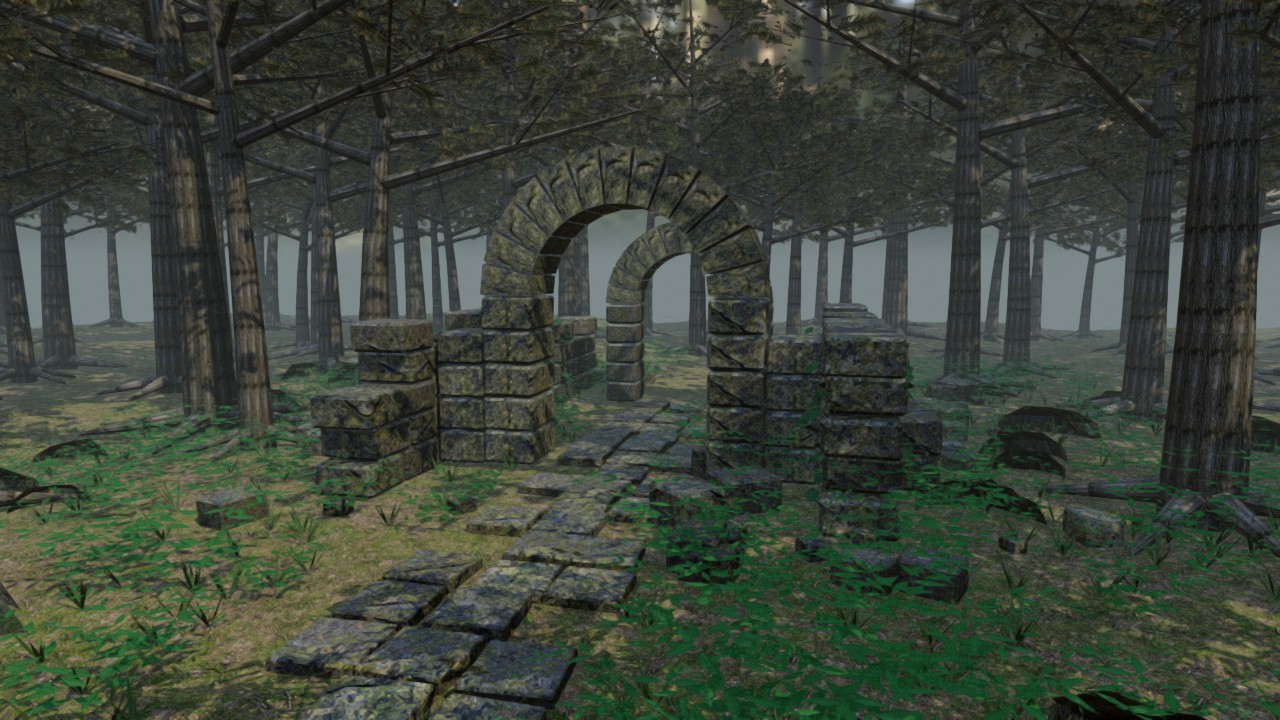
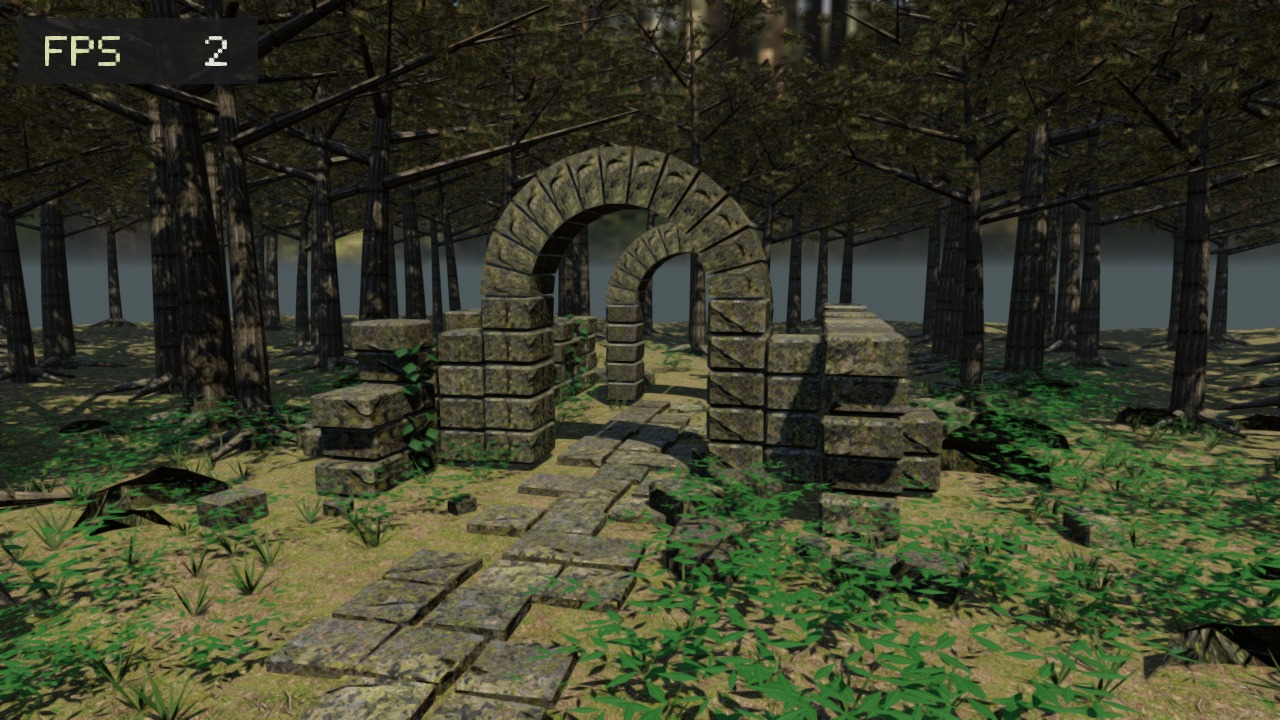
Illuminate the forest clearing and add a measured FPS overlay

diff --git a/src/FpsHud.cpp b/src/FpsHud.cpp
@@ -1,0 +1,78 @@
+#include "FpsHud.h"
+#include <filament/RenderableManager.h>
+#include <filament/Viewport.h>
+#include <utils/EntityManager.h>
+#include <algorithm>
+#include <stdexcept>
+
+namespace forest {
+using namespace filament;
+namespace {
+struct HudVertex { math::float3 position; math::float2 uv; };
+// Static storage stays valid until Filament finishes the asynchronous upload.
+const HudVertex quadVertices[] = {
+    {{-1,-1,0},{0,0}}, {{1,-1,0},{1,0}}, {{1,1,0},{1,1}}, {{-1,1,0},{0,1}}
+};
+const uint16_t quadIndices[] = {0,1,2,0,2,3};
+}
+FpsHud::~FpsHud() {
+    if (view_) engine_.destroy(view_);
+    if (scene_) { scene_->remove(quad_); engine_.destroy(scene_); }
+    engine_.destroy(quad_);
+    utils::EntityManager::get().destroy(quad_);
+    if (camera_) engine_.destroyCameraComponent(cameraEntity_);
+    utils::EntityManager::get().destroy(cameraEntity_);
+    if (vertices_) engine_.destroy(vertices_);
+    if (indices_) engine_.destroy(indices_);
+    if (instance_) engine_.destroy(instance_);
+    if (material_) engine_.destroy(material_);
+}
+void FpsHud::load(const AssetReader& read) {
+    if (material_) throw std::logic_error("FPS HUD already loaded");
+    const auto bytes = read("forest/hud.filamat");
+    material_ = Material::Builder().package(bytes.data(),bytes.size()).build(engine_);
+    if (!material_) throw std::runtime_error("Invalid FPS HUD material");
+    instance_ = material_->createInstance();
+    reset();
+    scene_ = engine_.createScene();
+    view_ = engine_.createView();
+    cameraEntity_ = utils::EntityManager::get().create();
+    camera_ = engine_.createCamera(cameraEntity_);
+    camera_->setProjection(Camera::Projection::ORTHO,-1,1,-1,1,0.1,10);
+    camera_->lookAt({0,0,1},{0,0,0});
+    camera_->setExposure(1.0f);
+    view_->setScene(scene_); view_->setCamera(camera_);
+    // Composite this small translucent view through Filament's color pass.
+    view_->setPostProcessingEnabled(true);
+    view_->setBlendMode(View::BlendMode::TRANSLUCENT);
+    view_->setShadowingEnabled(false);
+    vertices_ = VertexBuffer::Builder().vertexCount(4).bufferCount(1)
+        .attribute(VertexAttribute::POSITION,0,VertexBuffer::AttributeType::FLOAT3,offsetof(HudVertex,position),sizeof(HudVertex))
+        .attribute(VertexAttribute::UV0,0,VertexBuffer::AttributeType::FLOAT2,offsetof(HudVertex,uv),sizeof(HudVertex)).build(engine_);
+    vertices_->setBufferAt(engine_,0,VertexBuffer::BufferDescriptor(quadVertices,sizeof(quadVertices)));
+    indices_ = IndexBuffer::Builder().indexCount(6).bufferType(IndexBuffer::IndexType::USHORT).build(engine_);
+    indices_->setBuffer(engine_,IndexBuffer::BufferDescriptor(quadIndices,sizeof(quadIndices)));
+    quad_ = utils::EntityManager::get().create();
+    const auto result = RenderableManager::Builder(1).boundingBox({{0,0,0},{1,1,1}})
+        .geometry(0,RenderableManager::PrimitiveType::TRIANGLES,vertices_,indices_)
+        .material(0,instance_).culling(false).castShadows(false).receiveShadows(false).build(engine_,quad_);
+    if (result != RenderableManager::Builder::Success) throw std::runtime_error("Cannot create FPS HUD");
+    scene_->addEntity(quad_);
+}
+void FpsHud::render(Renderer& renderer, int width, int height) {
+    if (width <= 0 || height <= 0) return;
+    const int margin = std::max(8,std::min(width,height)/40);
+    const int w = std::min(std::clamp(std::min(width,height)/3,180,270),width-2*margin);
+    const int h = w*15/54;
+    if (w <= 0 || height < h+2*margin) return;
+    view_->setViewport({margin,height-margin-h,uint32_t(w),uint32_t(h)});
+    renderer.render(view_);
+}
+void FpsHud::completedFrame(double seconds) {
+    if (counter_.record(seconds)) instance_->setParameter("fps",counter_.value());
+}
+void FpsHud::reset() {
+    counter_.reset();
+    if (instance_) instance_->setParameter("fps",-1.f);
+}
+}

diff --git a/src/main.cpp b/src/main.cpp
@@ -1,6 +1,7 @@
 #include <SDL3/SDL.h>
 #include <SDL3/SDL_main.h>
 #include "Forest.h"
+#include "FpsHud.h"
 #include <filament/Camera.h>
 #include <filament/Renderer.h>
 #include <filament/SwapChain.h>
@@ -37,12 +38,15 @@ public:
         forest::Forest::configure(*view_);
         forest_=std::make_unique<forest::Forest>(*engine_,*scene_);
         forest_->load(readAsset);
+        hud_=std::make_unique<forest::FpsHud>(*engine_);
+        hud_->load(readAsset);
         Renderer::FrameRateOptions rate;rate.interval=1;renderer_->setFrameRateOptions(rate);
         start_=SDL_GetTicks();
     }
     ~Demo() {
         if(!engine_)return;
         suspend();
+        hud_.reset();
         forest_.reset();
         if(view_)engine_->destroy(view_);
         if(scene_)engine_->destroy(scene_);
@@ -53,6 +57,7 @@ public:
     }
     void suspend() {
         active_=false;fingers_.clear();
+        if(hud_)hud_->reset();
         if(swapChain_) {engine_->destroy(swapChain_);swapChain_=nullptr;}
         native_=nullptr;
     }
@@ -89,18 +94,24 @@ public:
         auto* native=static_cast<ANativeWindow*>(SDL_GetPointerProperty(SDL_GetWindowProperties(window_),
             SDL_PROP_WINDOW_ANDROID_WINDOW_POINTER,nullptr));
         if(native!=native_) {
+            hud_->reset();
             if(swapChain_)engine_->destroy(swapChain_);
             native_=native;swapChain_=native?engine_->createSwapChain(native):nullptr;
         }
         SDL_GetWindowSizeInPixels(window_,&width_,&height_);
-        if(!swapChain_ || width_<=0 || height_<=0) {SDL_Delay(20);return;}
+        if(!swapChain_ || width_<=0 || height_<=0) {hud_->reset();SDL_Delay(20);return;}
         view_->setViewport({0,0,uint32_t(width_),uint32_t(height_)});
         camera_->setProjection(52.0,double(width_)/height_,.1,100,Camera::Fov::VERTICAL);
         const double horizontal=distance_*std::cos(pitch_);
         camera_->lookAt({horizontal*std::sin(yaw_),1.6+distance_*std::sin(pitch_),-3+horizontal*std::cos(yaw_)},
             {0,1.6,-3},{0,1,0});
         forest_->animate(float(SDL_GetTicks()-start_)*.001f);
-        if(renderer_->beginFrame(swapChain_)) {renderer_->render(view_);renderer_->endFrame();}
+        if(renderer_->beginFrame(swapChain_)) {
+            renderer_->render(view_);
+            hud_->render(*renderer_,width_,height_);
+            renderer_->endFrame();
+            hud_->completedFrame(double(SDL_GetTicksNS())*1e-9);
+        }
     }
 private:
     float pinchDistance() const {
@@ -121,6 +132,7 @@ private:
     ANativeWindow* native_=nullptr;
     utils::Entity cameraEntity_{};
     std::unique_ptr<forest::Forest> forest_;
+    std::unique_ptr<forest::FpsHud> hud_;
     std::map<SDL_FingerID,float2> fingers_;
     float yaw_=.24f,pitch_=.12f,distance_=13;
     int width_=0,height_=0;

diff --git a/src/Forest.cpp b/src/Forest.cpp
@@ -99,21 +99,21 @@ void Forest::load(const AssetReader& read) {
     auto* reflection=ktxreader::Ktx1Reader::createTexture(&engine_,bundle.release(),false);
     if(!reflection) throw std::runtime_error("Failed to load environment");
     textures_.push_back(reflection);
-    light_=IndirectLight::Builder().reflections(reflection).irradiance(3,sh).intensity(18000).build(engine_);
+    light_=IndirectLight::Builder().reflections(reflection).irradiance(3,sh).intensity(9000).build(engine_);
     scene_.setIndirectLight(light_);
     auto skyData=read("forest/environment_skybox.ktx");
     auto* skyTexture=ktxreader::Ktx1Reader::createTexture(&engine_,
         new image::Ktx1Bundle(skyData.data(),uint32_t(skyData.size())),false);
     if(!skyTexture) throw std::runtime_error("Failed to load sky");
     textures_.push_back(skyTexture);
-    sky_=Skybox::Builder().environment(skyTexture).intensity(18000).build(engine_);scene_.setSkybox(sky_);
+    sky_=Skybox::Builder().environment(skyTexture).showSun(true).intensity(9000).build(engine_);scene_.setSkybox(sky_);
     auto sun=utils::EntityManager::get().create();entities_.push_back(sun);
     LightManager::ShadowOptions shadows;
     shadows.mapSize=2048;shadows.shadowCascades=3;
     shadows.cascadeSplitPositions[0]=.12f;shadows.cascadeSplitPositions[1]=.38f;
     shadows.shadowFar=65;
-    LightManager::Builder(LightManager::Type::SUN).color({1.0f,.88f,.70f}).intensity(65000)
-        .direction({-.55f,-.72f,-.42f}).sunAngularRadius(.8f)
+    LightManager::Builder(LightManager::Type::SUN).color({1.0f,.88f,.70f}).intensity(110000)
+        .direction({-.32f,-.82f,-.47f}).sunAngularRadius(.53f)
         .castShadows(true).shadowOptions(shadows).build(engine_,sun);
     scene_.addEntity(sun);
 }
@@ -128,10 +128,10 @@ void Forest::configure(View& view) {
     view.setTemporalAntiAliasingOptions(taa);
     AmbientOcclusionOptions ao;ao.enabled=true;ao.radius=.75f;ao.power=1.2f;ao.quality=QualityLevel::MEDIUM;
     view.setAmbientOcclusionOptions(ao);
-    BloomOptions bloom;bloom.enabled=true;bloom.strength=.045f;bloom.threshold=true;
+    BloomOptions bloom;bloom.enabled=true;bloom.strength=.065f;bloom.threshold=true;
     view.setBloomOptions(bloom);
-    FogOptions fog;fog.enabled=true;fog.distance=8;fog.density=.012f;fog.height=1;
-    fog.heightFalloff=.14f;fog.color={.36f,.43f,.44f};fog.inScatteringStart=12;fog.inScatteringSize=20;
+    FogOptions fog;fog.enabled=true;fog.distance=18;fog.density=.004f;fog.height=1;
+    fog.heightFalloff=.2f;fog.color={.36f,.43f,.44f};fog.inScatteringStart=12;fog.inScatteringSize=20;
     view.setFogOptions(fog);
     DynamicResolutionOptions resolution;resolution.enabled=true;resolution.minScale={.65f,.65f};
     resolution.maxScale={1,1};resolution.quality=QualityLevel::MEDIUM;

diff --git a/tests/render.cpp b/tests/render.cpp
@@ -1,4 +1,6 @@
 #include "Forest.h"
+#include "FpsHud.h"
+#include <chrono>
 #include <filament/Camera.h>
 #include <filament/Renderer.h>
 #include <filament/SwapChain.h>
@@ -20,18 +22,21 @@ int main() {
     c->setProjection(52,1280./720,.1,100,Camera::Fov::VERTICAL);
     c->setExposure(16,1.f/125,100);c->lookAt({3.07,3.16,9.54},{0,1.6,-3},{0,1,0});
     {
-        forest::Forest scene(*e,*s);scene.load([](const std::string& name){
+        forest::Forest scene(*e,*s);const auto read=[](const std::string& name){
             std::ifstream f(".generated/assets/"+name,std::ios::binary);
             if(!f)throw std::runtime_error(name);
             return std::vector<uint8_t>(std::istreambuf_iterator<char>(f),{});
-        });
+        };
+        scene.load(read);
+        forest::FpsHud hud(*e);hud.load(read);
         forest::Forest::configure(*v);
         DynamicResolutionOptions d;d.enabled=false;v->setDynamicResolutionOptions(d);
         std::vector<uint8_t> pixels(1280*720*4);
-        for(int i=0;i<8;++i) {
-            if(r->beginFrame(swap)) {r->render(v);
-                if(i==7)r->readPixels(0,0,1280,720,backend::PixelBufferDescriptor(pixels.data(),pixels.size(),backend::PixelDataFormat::RGBA,backend::PixelDataType::UBYTE));
+        for(int i=0;i<16;++i) {
+            if(r->beginFrame(swap)) {r->render(v);hud.render(*r,1280,720);
+                if(i==15)r->readPixels(0,0,1280,720,backend::PixelBufferDescriptor(pixels.data(),pixels.size(),backend::PixelDataFormat::RGBA,backend::PixelDataType::UBYTE));
                 r->endFrame();
+                hud.completedFrame(std::chrono::duration<double>(std::chrono::steady_clock::now().time_since_epoch()).count());
             }
             e->flushAndWait();
         }

diff --git a/tests/fps.cpp b/tests/fps.cpp
@@ -1,0 +1,26 @@
+#include "FpsCounter.h"
+#include <cmath>
+#include <iostream>
+#include <stdexcept>
+
+void require(bool ok, const char* message) { if(!ok) throw std::runtime_error(message); }
+int main() {
+    forest::FpsCounter counter;
+    require(counter.value()<0,"Warm-up must not invent an FPS value");
+    for(int i=0;i<=60;++i) counter.record(i/60.0);
+    require(std::abs(counter.value()-60)<.001f,"60 submitted frames/sec");
+    counter.reset();
+    counter.record(10);
+    for(int i=1;i<=15;++i)counter.record(10+i/60.0);
+    counter.record(10.5); // The missing frames are not submitted or counted.
+    require(std::abs(counter.value()-32)<.001f,"Skipped frames must reduce FPS");
+    counter.reset();
+    require(counter.value()<0,"Resume must clear the old value");
+    counter.record(1000);
+    for(int i=1;i<=30;++i)counter.record(1000+i/60.0);
+    require(std::abs(counter.value()-60)<.001f,"Background time must not affect resumed FPS");
+    bool threw=false;
+    try { counter.record(0); } catch(const std::invalid_argument&) { threw=true; }
+    require(threw,"Reject a backwards clock");
+    std::cout<<"FPS: stable rate, skipped frames, resume and clock validation passed\n";
+}

diff --git a/src/FpsHud.h b/src/FpsHud.h
@@ -1,0 +1,30 @@
+#pragma once
+#include "Forest.h"
+#include "FpsCounter.h"
+#include <filament/Camera.h>
+#include <filament/Renderer.h>
+
+namespace forest {
+class FpsHud {
+public:
+    explicit FpsHud(filament::Engine& engine) : engine_(engine) {}
+    ~FpsHud();
+    FpsHud(const FpsHud&) = delete;
+    FpsHud& operator=(const FpsHud&) = delete;
+    void load(const AssetReader& read);
+    void render(filament::Renderer& renderer, int width, int height);
+    void completedFrame(double seconds);
+    void reset();
+private:
+    filament::Engine& engine_;
+    filament::Scene* scene_ = nullptr;
+    filament::View* view_ = nullptr;
+    filament::Camera* camera_ = nullptr;
+    filament::Material* material_ = nullptr;
+    filament::MaterialInstance* instance_ = nullptr;
+    filament::VertexBuffer* vertices_ = nullptr;
+    filament::IndexBuffer* indices_ = nullptr;
+    utils::Entity cameraEntity_{}, quad_{};
+    FpsCounter counter_;
+};
+}

diff --git a/src/FpsCounter.h b/src/FpsCounter.h
@@ -1,0 +1,29 @@
+#pragma once
+#include <cmath>
+#include <stdexcept>
+
+namespace forest {
+// Counts submitted frames over wall time, including gaps when beginFrame skips.
+class FpsCounter {
+public:
+    void reset() { start_ = -1; previous_ = -1; frames_ = 0; value_ = -1; }
+    bool record(double seconds) {
+        if (!std::isfinite(seconds) || seconds < 0 || seconds < previous_)
+            throw std::invalid_argument("FPS clock must be finite and monotonic");
+        previous_ = seconds;
+        if (start_ < 0) { start_ = seconds; return false; }
+        ++frames_;
+        const double elapsed = seconds - start_;
+        if (elapsed < 0.5) return false;
+        value_ = float(frames_ / elapsed);
+        start_ = seconds;
+        frames_ = 0;
+        return true;
+    }
+    float value() const { return value_; }
+private:
+    double start_ = -1, previous_ = -1;
+    unsigned frames_ = 0;
+    float value_ = -1;
+};
+}

diff --git a/scripts/check-apk.py b/scripts/check-apk.py
@@ -4,7 +4,7 @@ import sys
 import zipfile
 
 with zipfile.ZipFile(sys.argv[1]) as apk:
-    for name in ['surface.filamat', 'foliage.filamat', 'canopy.filamat', 'environment_ibl.ktx', 'environment_skybox.ktx']:
+    for name in ['surface.filamat', 'foliage.filamat', 'canopy.filamat', 'hud.filamat', 'environment_ibl.ktx', 'environment_skybox.ktx']:
         if apk.getinfo('assets/forest/' + name).file_size == 0:
             raise RuntimeError(f'Empty asset: {name}')
     for material in ['ground', 'stone', 'bark']:
@@ -16,4 +16,4 @@ with zipfile.ZipFile(sys.argv[1]) as apk:
         raise RuntimeError('Invalid canopy texture size')
     if not apk.read('assets/forest/CREDITS.md'):
         raise RuntimeError('Missing asset credits')
-print('APK contains three materials, both environment maps, ten textures and credits.')
+print('APK contains four materials, both environment maps, ten textures and credits.')

diff --git a/scripts/prepare-scene.py b/scripts/prepare-scene.py
@@ -68,7 +68,7 @@ def main():
                         image = image.crop(entry['crop']).resize((1024, 1024), Image.Resampling.LANCZOS)
                     (output / (entry['name'] + '.rgba')).write_bytes(image.tobytes())
             print(f"Prepared {entry['name']}", flush=True)
-        for material in ['surface', 'foliage', 'canopy']:
+        for material in ['surface', 'foliage', 'canopy', 'hud']:
             subprocess.run([str(tools / 'matc'), '-a', 'opengl', '-p', 'all',
                             '-o', str(output / (material + '.filamat')),
                             str(ROOT / 'materials' / (material + '.mat'))], check=True)

diff --git a/src/Geometry.cpp b/src/Geometry.cpp
@@ -250,6 +250,9 @@ std::vector<Mesh> generate() {
     for(int x=-32;x<=32;x+=5) for(int z=-32;z<=27;z+=5) {
         float px=x+b.random.next(-2.2f,2.2f),pz=z+b.random.next(-2.2f,2.2f);
         if(std::abs(px)<6.5f && pz>-14 && pz<14)continue;
+        // Open the sunward edge of the clearing. Sun rays must reach the masonry,
+        // not terminate in an uninterrupted roof of pine branches.
+        if(px>2 && px<16 && pz>-1 && pz<18)continue;
         b.tree(px,pz,b.random.next(9,16));
     }
     for(int i=0;i<400;++i) {

diff --git a/README.md b/README.md
@@ -6,7 +6,8 @@ window/input/lifecycle and **Google Filament 1.78.1** for OpenGL ES rendering.
 ![Actual Filament OpenGL rendering on Linux llvmpipe](docs/forest-preview.jpg)
 
 This preview is an actual Filament render at 1280×720, using the same scene and materials.
-It is not an Android screenshot or an FPS benchmark.
+It is not an Android screenshot or an FPS benchmark. The visible FPS is measured on the
+Linux software renderer, not a phone.
 
 ## Scene
 
@@ -16,8 +17,12 @@ It is not an Android screenshot or an FPS benchmark.
 - Photograph-based 1K PBR ground, mossy stone and bark maps: albedo, OpenGL normals and AO/roughness/metalness.
 - Forest HDR environment, prefiltered reflections, diffuse spherical harmonics, warm directional sunlight,
   three shadow cascades, SSAO, height fog, restrained bloom, temporal anti-aliasing and animated foliage.
+- A sunward opening in the canopy lets direct sunlight reach the arches and stone path;
+  reduced ambient light and thinner fog preserve the contrast between sunlight and tree shadows.
+- Top-left FPS overlay, updated every half second from submitted frames. Skipped frames count
+  as elapsed time; backgrounding and surface changes reset the measurement.
 - Deterministic generation with spatial/material batching and frustum culling; approximately
-  405,000 triangles, 228 batches and 64 MiB of vertex/index data before GPU driver overhead.
+  386,000 triangles, 232 batches and 61 MiB of vertex/index data before GPU driver overhead.
   Texture data is about 53 MiB including mipmaps, plus environment maps and render targets.
 - One finger rotates the camera around the ruin; two fingers pinch to zoom. Mouse drag/wheel also work.
   This is an orbiting scene viewer; it does not include walking physics or collision detection.
@@ -57,7 +62,7 @@ release: using NDK r29 with this release previously caused an unresolved `__hash
 nor PRs trigger APK builds. Successful builds replace the same
 `test-build` prerelease / `FilamentSDL3-test-arm64.apk`. No Actions Artifacts are used.
 
-The workflow prepares all scene assets, checks geometry, builds the APK, verifies that the
+The workflow prepares all scene assets, checks geometry and FPS accounting, builds the APK, verifies that the
 materials/textures/environment maps are packaged, and verifies the APK signature before upload.
 The APK remains debug-signed; a changed runner debug key may require uninstalling an older build.
 
@@ -67,6 +72,8 @@ The APK remains debug-signed; a changed runner debug key may require uninstallin
 g++ -std=c++20 -O2 -Wall -Wextra -Werror -isystem .deps/host/filament/include \
   -Isrc tests/geometry.cpp src/Geometry.cpp -o /tmp/forest-geometry-test
 /tmp/forest-geometry-test
+g++ -std=c++20 -O2 -Wall -Wextra -Werror -Isrc tests/fps.cpp -o /tmp/forest-fps-test
+/tmp/forest-fps-test
 python3 scripts/check-apk.py android/app/build/outputs/apk/debug/app-debug.apk
 ```
 
@@ -81,7 +88,8 @@ background/resume and screen off/on. Dynamic resolution can scale between 65% an
 - `src/main.cpp`: SDL event loop, orbit/pinch camera, Android surface recreation and suspension.
 - `src/Forest.*`: Filament meshes, textures, materials, environment, sunlight and resource ownership.
 - `src/Geometry.*`: deterministic scene generation, independent of SDL and the renderer.
-- `materials/`: PBR and animated subsurface foliage materials.
+- `src/FpsHud.*`, `src/FpsCounter.h`: Filament text overlay and frame-rate accounting.
+- `materials/`: PBR, animated subsurface foliage and FPS text materials.
 - `assets/sources.json`, `assets/CREDITS.md`: exact source hashes, credits and CC0 licensing.
 - `scripts/prepare-scene.py`, `scripts/check-apk.py`: asset preparation and packaging validation.
 - `android/`, `CMakeLists.txt`: existing SDLActivity / native Android build.
